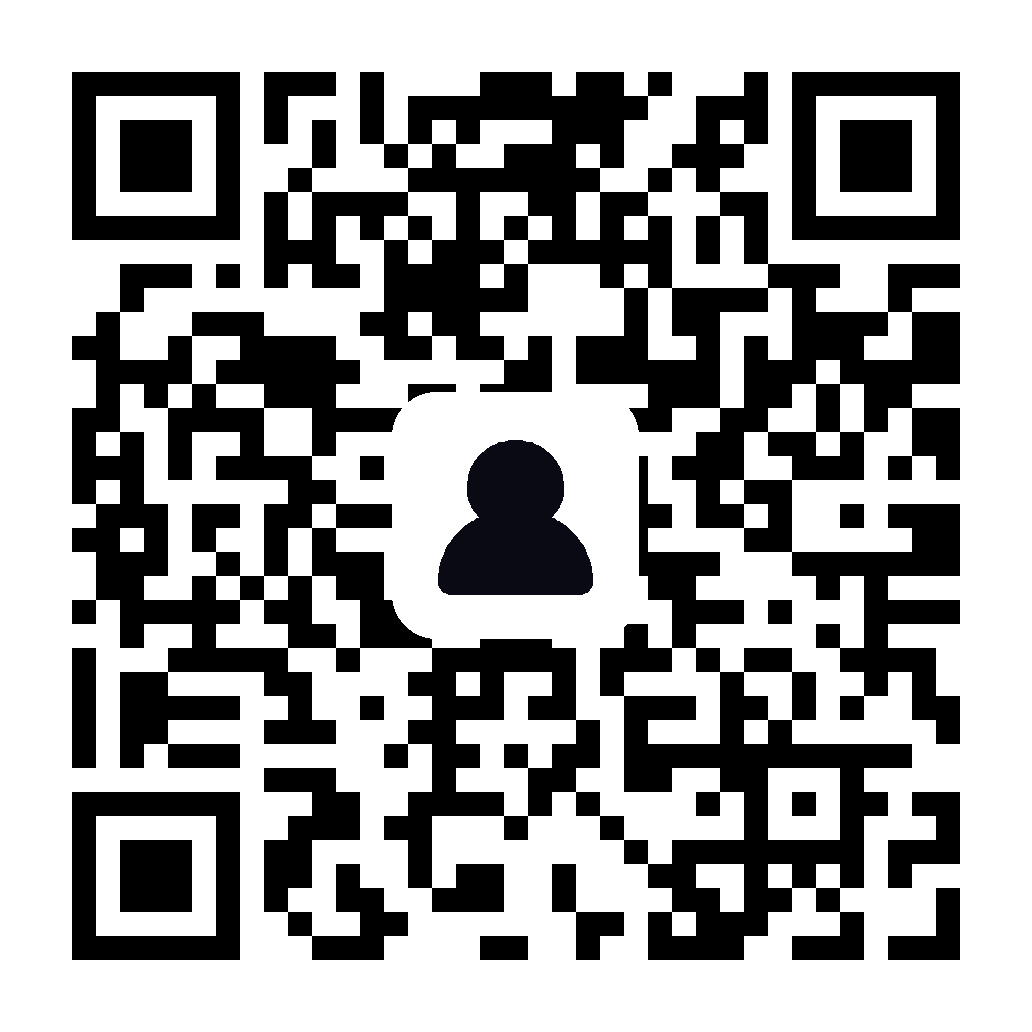
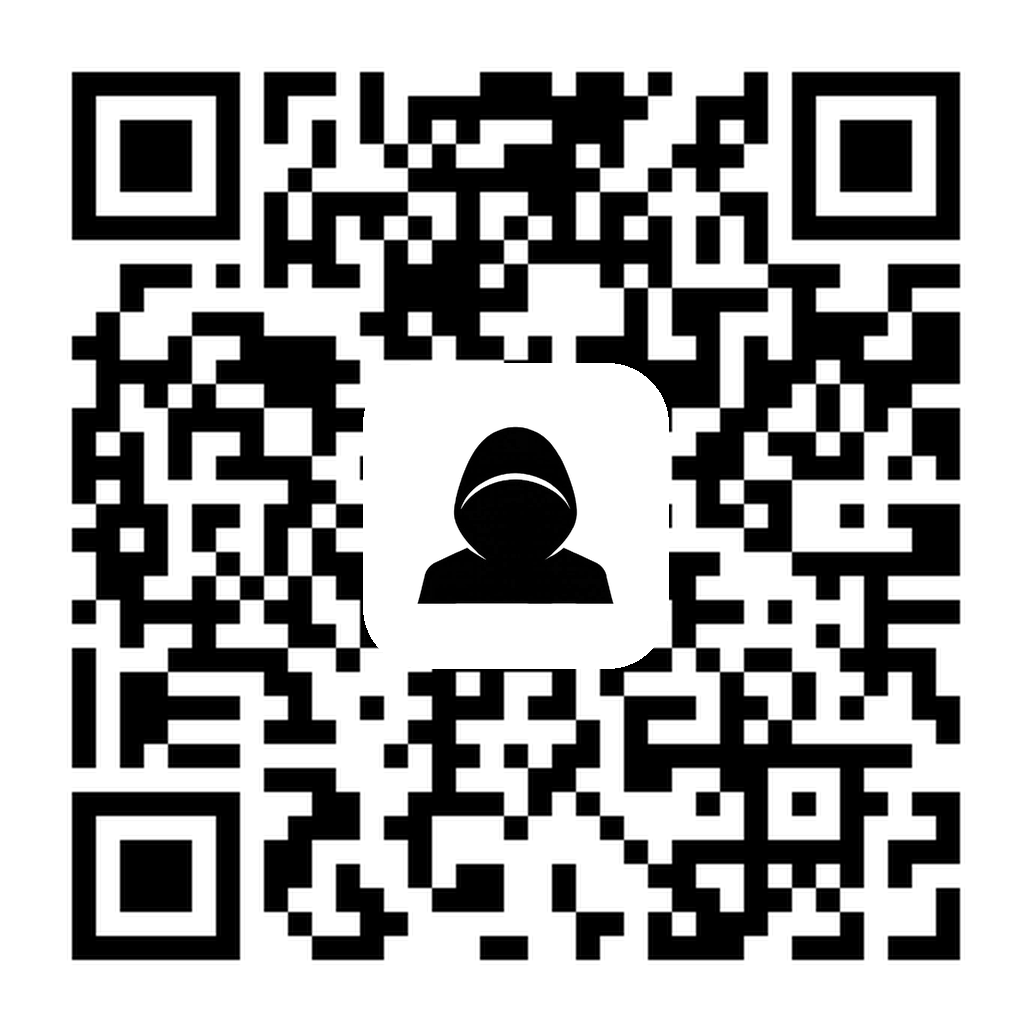
fix: sostituisce silhouette hand-drawn con generazione Gemini, rimuove AdSense
Silhouette precedente scadente, rigenerata via aiTool/Gemini a partire
dall'icona PDF Magic Tool: PNG ritagliato/trasparentato invece di SVG
disegnato a mano, usato sia nel logo (nav/footer) sia nell'overlay QR.
Rimosso script AdSense in head, possibile causa di pagina non responsiva
(dominio non ancora approvato, nessun beneficio pre-approvazione).

diff --git a/index.html b/index.html
@@ -7,14 +7,13 @@
 <meta name="description" content="Programmi su misura per automatizzare il lavoro ripetitivo in ufficio: PDF, conversioni, buoni pasto, conteggi. Prezzo fisso una tantum, zero canoni. Nessun limite: dimmi cosa ti serve.">
 <link rel="icon" href="assets/favicon.svg" type="image/svg+xml">
 <link rel="stylesheet" href="style.css">
-<script async src="https://pagead2.googlesyndication.com/pagead/js/adsbygoogle.js?client=ca-pub-2556899149200560" crossorigin="anonymous"></script>
 </head>
 <body>
 
 <header class="nav">
   <div class="nav-inner">
     <a href="#top" class="logo">
-      <svg class="logo-mark" viewBox="0 0 100 100" aria-hidden="true"><path d="M50,8 C34,8 23,20 23,35 C23,42 26,47 30,51 C17,57 7,70 7,87 C7,91 10,94 14,94 L86,94 C90,94 93,91 93,87 C93,70 83,57 70,51 C74,47 77,42 77,35 C77,20 66,8 50,8 Z"/></svg>
+      <img class="logo-mark" src="assets/hacker-silhouette.png" alt="" aria-hidden="true">
       autom<span class="dot">.</span>lab
     </a>
     <a href="https://www.instagram.com/autom.lab/" target="_blank" rel="noopener" class="btn btn-nav">Scrivimi</a>
@@ -183,7 +182,7 @@
 <footer class="footer">
   <div class="section-inner">
     <span class="logo small">
-      <svg class="logo-mark" viewBox="0 0 100 100" aria-hidden="true"><path d="M50,8 C34,8 23,20 23,35 C23,42 26,47 30,51 C17,57 7,70 7,87 C7,91 10,94 14,94 L86,94 C90,94 93,91 93,87 C93,70 83,57 70,51 C74,47 77,42 77,35 C77,20 66,8 50,8 Z"/></svg>
+      <img class="logo-mark" src="assets/hacker-silhouette.png" alt="" aria-hidden="true">
       autom<span class="dot">.</span>lab
     </span>
     <a href="https://www.instagram.com/autom.lab/" target="_blank" rel="noopener">@autom.lab</a>

diff --git a/style.css b/style.css
@@ -43,10 +43,9 @@ a { color: inherit; text-decoration: none; }
 .logo-mark {
   width: 1.15em;
   height: 1.15em;
-  color: var(--accent);
   flex-shrink: 0;
+  object-fit: contain;
 }
-.logo-mark path { fill: currentColor; }
 
 /* nav */
 .nav {
